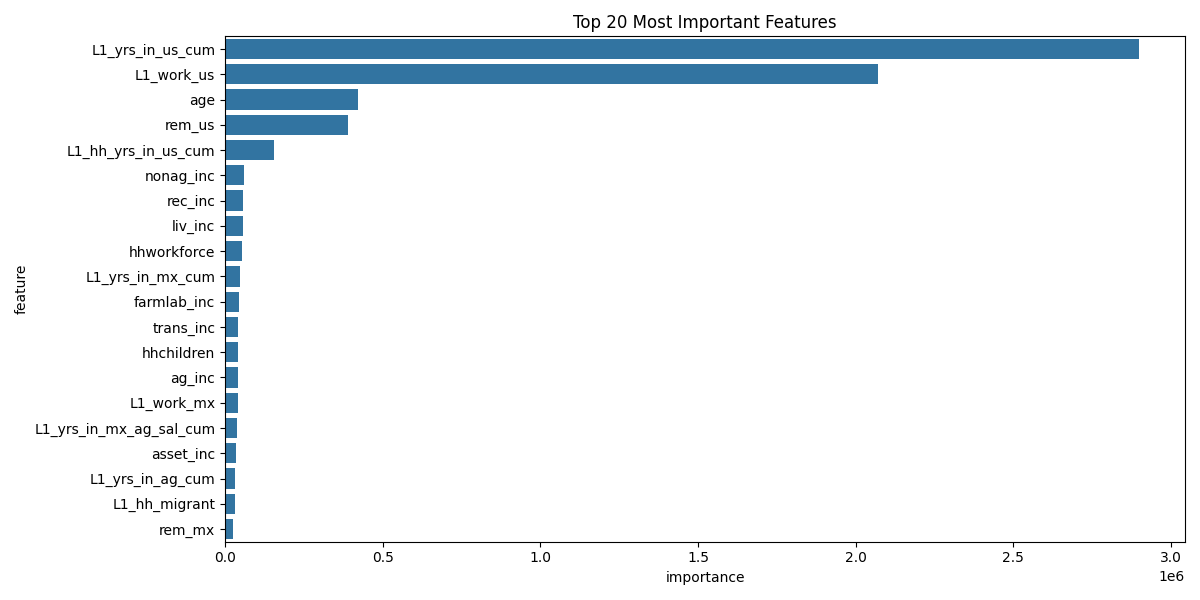
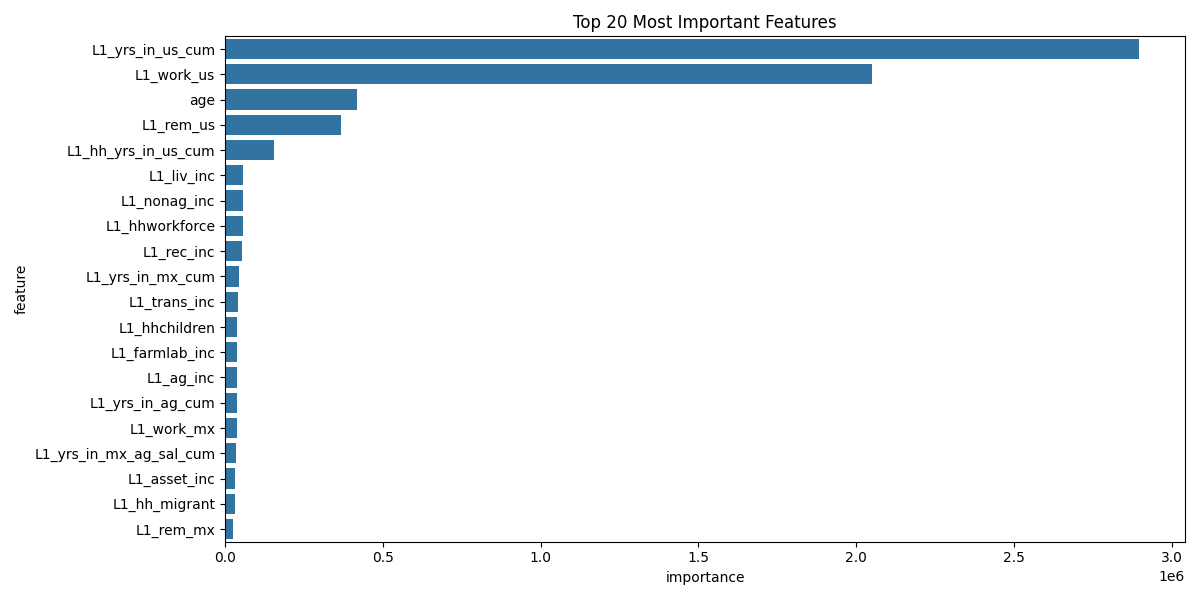
c

diff --git a/code/04_cohort_analysis_add_vars.py b/code/04_cohort_analysis_add_vars.py
@@ -30,15 +30,15 @@ df = pd.read_csv('data/data_cohort_analysis_add_vars.csv')
 vill_cols = [col for col in df if col.startswith('vill_')]
 
 # Create x and y variables (most lagged to avoid leakage):
-x_cols1 = ['male', 'age', 'hhchildren', 'hhworkforce', 
+x_cols1 = ['male', 'age', 'L1_hhchildren', 'L1_hhworkforce', 
            'L1_yrs_in_mx_cum', 'L1_yrs_in_us_cum', 'L1_yrs_in_ag_cum', 'L1_yrs_in_nonag_cum', 
            'L1_yrs_in_mx_ag_sal_cum', 'L1_yrs_in_mx_nonag_sal_cum', 'L1_yrs_in_mx_ag_own_cum', 
            'L1_yrs_in_mx_nonag_own_cum', 'L1_yrs_in_us_ag_sal_cum', 'L1_yrs_in_us_nonag_sal_cum', 
            'L1_yrs_in_us_ag_own_cum', 'L1_yrs_in_us_nonag_own_cum',
            'L1_work_us', 'L1_work_mx', 'L1_ag', 'L1_nonag',
-           'ag_inc', 'asset_inc', 'farmlab_inc', 'liv_inc', 'nonag_inc', 
-           'plot_inc_renta_ag', 'plot_inc_renta_nonag', 'rec_inc', 
-           'rem_mx', 'rem_us', 'trans_inc',
+           'L1_ag_inc', 'L1_asset_inc', 'L1_farmlab_inc', 'L1_liv_inc', 'L1_nonag_inc', 
+           'L1_plot_inc_renta_ag', 'L1_plot_inc_renta_nonag', 'L1_rec_inc', 
+           'L1_rem_mx', 'L1_rem_us', 'L1_trans_inc',
            'L1_hh_yrs_in_us_cum', 'L1_hh_migrant']
 
 # Assuming vill_cols is a list of village dummies already defined somewhere in your code
@@ -64,8 +64,8 @@ param_space = {
     'num_leaves': np.random.randint(20, 150, size=100),  # Max number of leaves in one tree
     'min_data_in_leaf': np.random.randint(10, 100, size=100),  # Min samples required in a leaf
     'learning_rate': np.random.uniform(0.01, 0.1, size=100),  # Step size for each boosting step
-    'feature_fraction': np.random.uniform(0.5, 1.0, size=100),  # Fraction of features used per tree
-    'bagging_fraction': np.random.uniform(0.5, 1.0, size=100),  # Fraction of data used per iteration
+    'feature_fraction': np.random.uniform(0.7, 1.0, size=100),  # Fraction of features used per tree
+    'bagging_fraction': np.random.uniform(0.7, 1.0, size=100),  # Fraction of data used per iteration
 }
 
 df['male'] = pd.to_numeric(df['male'], errors='coerce')  # Convert strings or mixed types to numeric

diff --git a/code/03_cohort_prep_add_vars.py b/code/03_cohort_prep_add_vars.py
@@ -82,9 +82,22 @@ df['L1_yrs_in_us_nonag_sal_cum'] = df.groupby('ind')['us_nonag_sal_'].cumsum().s
 df['L1_yrs_in_us_ag_own_cum'] = df.groupby('ind')['us_ag_own_'].cumsum().shift(1)
 df['L1_yrs_in_us_nonag_own_cum'] = df.groupby('ind')['us_nonag_own_'].cumsum().shift(1)
 
-# Cumsum of entire household
+# Entire household cumsum, lags
 df = df.sort_values(by=['numc', 'year'], ascending=[True, True]) # sort
 df['L1_hh_yrs_in_us_cum'] = df.groupby('numc')['work_us'].cumsum().shift(1)
+df['L1_hhchildren'] = df.groupby('numc')['hhchildren'].shift(1)
+df['L1_hhworkforce'] = df.groupby('numc')['hhworkforce'].shift(1)
+df['L1_ag_inc'] = df.groupby('numc')['ag_inc'].shift(1)
+df['L1_asset_inc'] = df.groupby('numc')['asset_inc'].shift(1)
+df['L1_farmlab_inc'] = df.groupby('numc')['farmlab_inc'].shift(1)
+df['L1_liv_inc'] = df.groupby('numc')['liv_inc'].shift(1)
+df['L1_nonag_inc'] = df.groupby('numc')['nonag_inc'].shift(1)
+df['L1_plot_inc_renta_ag'] = df.groupby('numc')['plot_inc_renta_ag'].shift(1)
+df['L1_plot_inc_renta_nonag'] = df.groupby('numc')['plot_inc_renta_nonag'].shift(1)
+df['L1_rec_inc'] = df.groupby('numc')['rec_inc'].shift(1)
+df['L1_rem_mx'] = df.groupby('numc')['rem_mx'].shift(1)
+df['L1_rem_us'] = df.groupby('numc')['rem_us'].shift(1)
+df['L1_trans_inc'] = df.groupby('numc')['trans_inc'].shift(1)
 
 df['cohort'] = df['year'].apply(assign_cohort)
 cohort_counts = df['cohort'].value_counts().sort_index()
@@ -94,6 +107,7 @@ print(cohort_counts)
 vill_dummies = pd.get_dummies(df['villageid'], drop_first=True, prefix="vill", dtype=int)
 df = pd.concat([df, vill_dummies], axis=1)
 
+# Individual lags
 df = df.sort_values(by=['ind', 'year'], ascending=[True, True]) # sort
 df['L1_work_us'] = df.groupby('ind')['work_us'].shift(1)
 df['L1_work_mx'] = df.groupby('ind')['work_in_mx'].shift(1)

diff --git a/code/05_simulate.py b/code/05_simulate.py
@@ -29,16 +29,17 @@ os.chdir(path)
 df = pd.read_csv('data/data_cohort_analysis_add_vars.csv')
 vill_cols = [col for col in df if col.startswith('vill_')]
 
-# Create x and y variables:
-x_cols1 = ['male', 'age', 'hhchildren', 'hhworkforce', 'ag', 'nonag', 
-           'yrs_in_mx_cum', 'yrs_in_us_cum', 'yrs_in_ag_cum', 'yrs_in_nonag_cum', 
-           'yrs_in_mx_ag_sal_cum', 'yrs_in_mx_nonag_sal_cum', 'yrs_in_mx_ag_own_cum', 
-           'yrs_in_mx_nonag_own_cum', 'yrs_in_us_ag_sal_cum', 'yrs_in_us_nonag_sal_cum', 
-           'yrs_in_us_ag_own_cum', 'yrs_in_us_nonag_own_cum',
+# Create x and y variables (most lagged to avoid leakage):
+x_cols1 = ['male', 'age', 'hhchildren', 'hhworkforce', 
+           'L1_yrs_in_mx_cum', 'L1_yrs_in_us_cum', 'L1_yrs_in_ag_cum', 'L1_yrs_in_nonag_cum', 
+           'L1_yrs_in_mx_ag_sal_cum', 'L1_yrs_in_mx_nonag_sal_cum', 'L1_yrs_in_mx_ag_own_cum', 
+           'L1_yrs_in_mx_nonag_own_cum', 'L1_yrs_in_us_ag_sal_cum', 'L1_yrs_in_us_nonag_sal_cum', 
+           'L1_yrs_in_us_ag_own_cum', 'L1_yrs_in_us_nonag_own_cum',
            'L1_work_us', 'L1_work_mx', 'L1_ag', 'L1_nonag',
            'ag_inc', 'asset_inc', 'farmlab_inc', 'liv_inc', 'nonag_inc', 
            'plot_inc_renta_ag', 'plot_inc_renta_nonag', 'rec_inc', 
-           'rem_mx', 'rem_us', 'trans_inc']
+           'rem_mx', 'rem_us', 'trans_inc',
+           'L1_hh_yrs_in_us_cum', 'L1_hh_migrant']
 
 # Assuming vill_cols is a list of village dummies already defined somewhere in your code
 x_cols = x_cols1 + vill_cols  # Final feature columns
